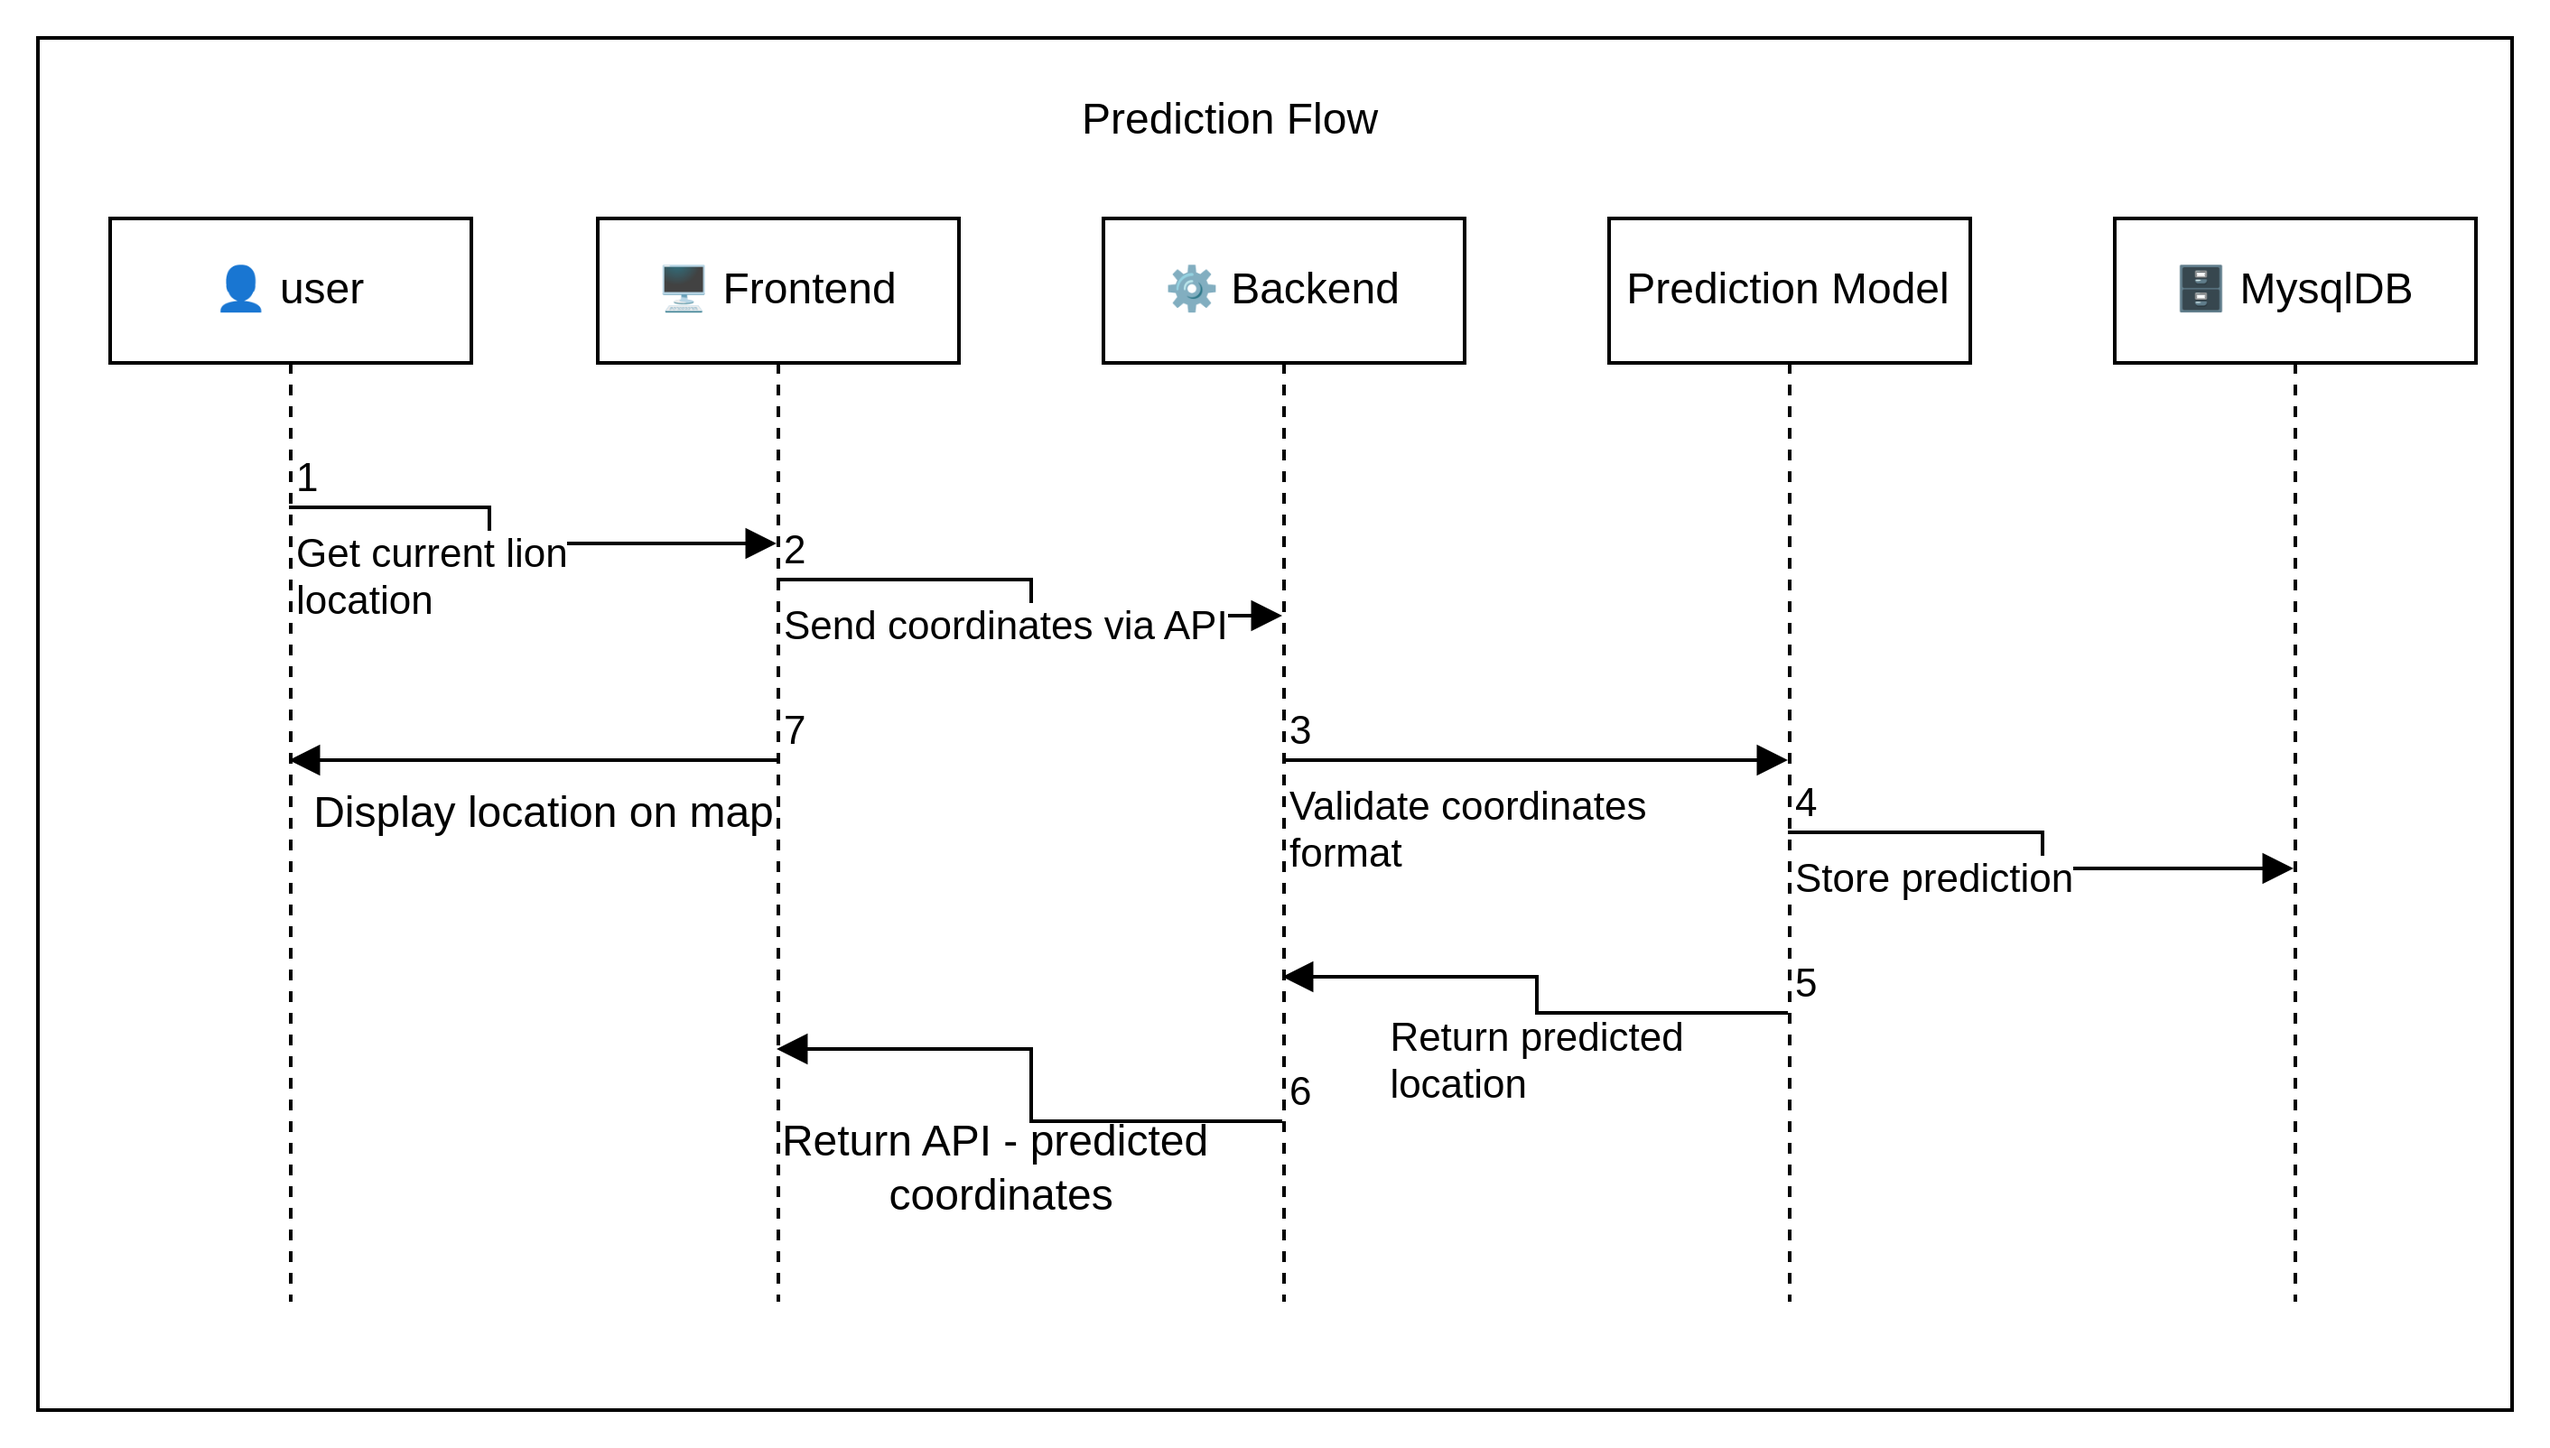
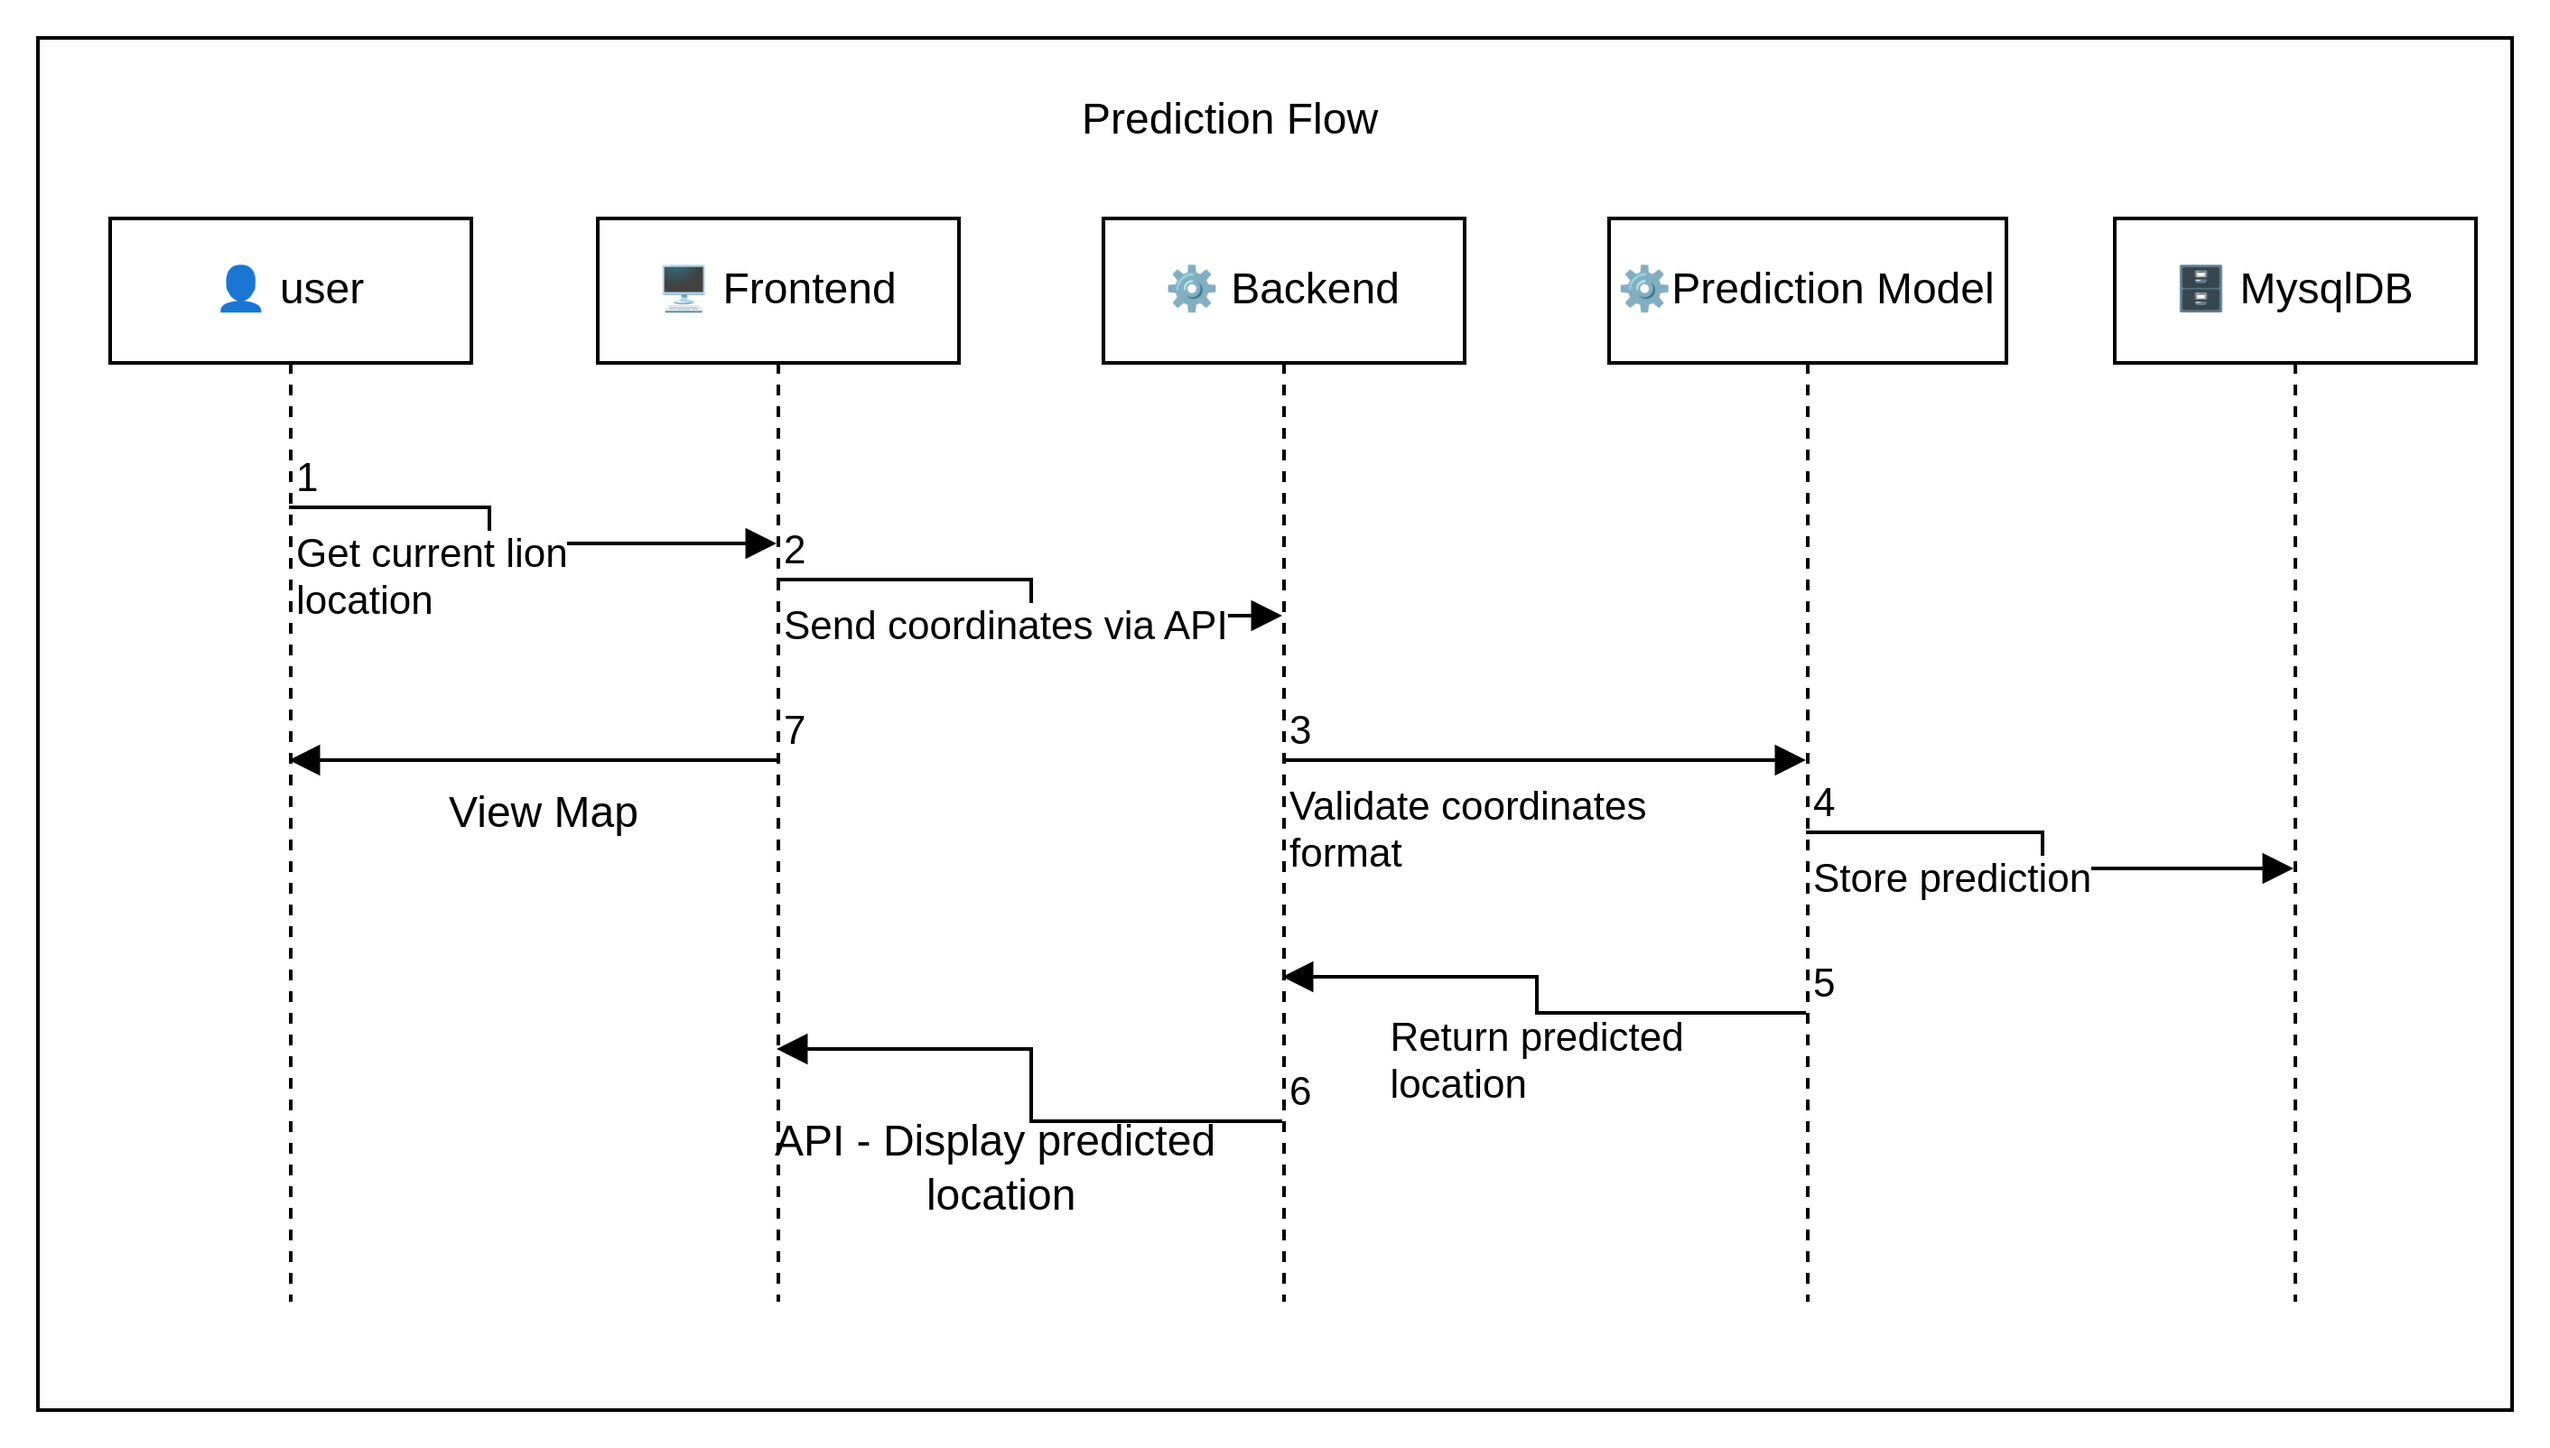
Updated System Documentation

diff --git a/README.md b/README.md
@@ -1,10 +1,10 @@
-# Lion Movement Prediction System
+# AI WILDLIFE RANGER
 
-A web prototype built with Flask that enables rangers to see the future location of a lion and get email alerts when this location is in a restricted area.
+A web based prototype built with Flask that enables rangers to see the future location of a lion and get email alerts when this location is in a restricted area.
 
 ## Table of Content
 
-- [Lion Movement Prediction System](#lion-movement-prediction-system)
+- [AI WILDLIFE RANGER](#ai-wildlife-ranger)
   - [Table of Content](#table-of-content)
   - [Overview](#overview)
   - [Features](#features)
@@ -17,32 +17,32 @@ A web prototype built with Flask that enables rangers to see the future location
     - [Clone the repository](#clone-the-repository)
     - [Create virtual environment](#create-virtual-environment)
     - [Install dependencies](#install-dependencies)
+    - [Environment Setup](#environment-setup)
     - [Setup Database](#setup-database)
-  - [Environment Setup](#environment-setup)
   - [API Documentation](#api-documentation)
   - [Run the App](#run-the-app)
   - [Database Schema](#database-schema)
   - [Useful links](#useful-links)
   - [Troubleshooting tips](#troubleshooting-tips)
-    - [Checking whether the predicted location is within the park(Taita taveta county)](#checking-whether-the-predicted-location-is-within-the-parktaita-taveta-county)
     - [Send Email alert to park authority if predicted location is outside the park(Kwale county)](#send-email-alert-to-park-authority-if-predicted-location-is-outside-the-parkkwale-county)
-    - [Dynamic change of our real-time data while fetching reponse from server](#dynamic-change-of-our-real-time-data-while-fetching-reponse-from-server)
-  - [Description of workflow](#description-of-workflow)
+  - [Basic workflow](#basic-workflow)
   - [Directory structure](#directory-structure)
   - [Help](#help)
 
 ## Overview
 
-AI Lion Ranger is a prototype designed to reduce human wildlife conflicts by increasing the proactive response time of rangers. Given the current location of a lion, it predicts where it will be in the next two hours.
+AI Lion Ranger is a prototype designed to reduce human wildlife conflicts by increasing the response time of rangers. Given the current location of a lion, it predicts where it will be in the next two hours.
 
 ![system-overview](./static/images/system-overview.png)
 
 ## Features
 
-- Map display
-- Predict locations
-- Model performance report
-- Email alerts
+- 📍 Predict Locations
+- 📍 View Location on Map
+- 💬 Feedback
+- 📑 Model Performance Report
+- 📨 Email Alerts
+- 👩💻 Authentication
 
 ## System Architecture
 
@@ -61,6 +61,7 @@ AI Lion Ranger is a prototype designed to reduce human wildlife conflicts by inc
 - Python3
 - Mysql
 - vscode
+- Internet connection
 
 ## Installation
 
@@ -95,13 +96,7 @@ python3 -m venv .venv
 pip install requirements.txt
 ```
 
-### Setup Database
-
-Paste the content of `schema.sql` into your mysql and execute.\
-Add the portion of the real_time data to the database by the running command below.\
-Run the `main.py` file or `python3 main.py` to seed the database.
-
-## Environment Setup
+### Environment Setup
 
 Create a `.env` file with following variables
 
@@ -112,6 +107,7 @@ PASSWORD = "@WildlifeTech2025"
 HOST = "localhost"
 DATABASE = "WDF_conservation"
 
+# scroll to useful links below to download data
 GPS_COLLAR_DATA = "Kiboche_last_500_rows_data.csv"
 
 # google maps javasript api key
@@ -124,7 +120,23 @@ OPENCAGE_API_KEY = "YOUR_OPENCAGE_API_KEY"
 SENDER_EMAIL = "YOUR_GMAIL"
 SENDER_PASS = "YOUR_GMAIL_APP_PASSWORD"
 RECIP_MAIL = "RECEIVER_EMAIL"
+
+# session secret key
+SESSION_SECRET_KEY = "YOUR_SELF_GENERATED_KEY"
+
+# sinch sms service - search sinch on internet & follow guides
+ACCESS_KEY_ID = "YOUR_SINCH_ACCESS_KEY"
+KEY_SECRET = "YOUR_SINCH_KEY_SECRET"
+PROJECT_ID = "YOUR_SINCH_PROJECT_ID"
+SINCH_NUMBER = "YOUR_SINCH_NUMBER"
+RECEIVER_NUMBER = "NUMBER_USED_TO_CREATE_SINCH_ACC"
 ```
+
+### Setup Database
+
+Paste the content of the `schema.sql` into your mysql and execute.\
+Add the portion of the real_time data to the database by the running command below.\
+Run the `main.py` file or `python3 main.py` to seed the database.
 
 ## API Documentation
 
@@ -136,7 +148,7 @@ GET /
 GET /model-report
 
 # display map on home page
-GET /display-location
+GET /view-map
 
 # get current lion location
 GET /real-time-location/<int:coordinate_id>
@@ -146,7 +158,17 @@ GET /real-time-location/<int:coordinate_id>
 GET /predict/location/<int:coordinate_id>/time/<int:time_interval>
 
 # send email alert
-POST /send-alert
+POST /send-email-notification
+
+# create account
+GET/POST /register
+
+# login
+GET/POST /login
+
+GET /logout
+GET/POST /feedback
+
 
 # replace the part inside <...> with a value e.g /predict/location/1/time/2"
 ```
@@ -157,12 +179,10 @@ On the terminal run `flask run --debug`.
 
 ## Database Schema
 
-![alt text](static/images/dbschema.png)
+![database-schema](static/images/dbschema.png)
 
 ## Useful links
 
-Requires Access Rights\
-[Project documentation](https://onedrive.live.com/view?id=43505624473455EF!3340&resid=43505624473455EF!3340&authkey=!ArLn6xbCh_7MAEs&wdo=2&cid=43505624473455ef)\
 [Download Lion Kiboche real-time data](https://drive.google.com/uc?id=1N9gEm56eMsf8qcRi3JwQzn2n4cxiuDsA&export=download)\
 [Code to ML prediction model](https://colab.research.google.com/drive/1eLzl6sPXAiUuNLhWkPMxFJgJbLa70__4?usp=sharing)
 
@@ -170,26 +190,26 @@ Requires Access Rights\
 
 Ensure you have installed all dependencies in `requirements.txt` file. Do this in a virtual environment.
 
-### Checking whether the predicted location is within the park(Taita taveta county)
+Try loading the app on a different browser.
 
-- Try different real time location that we have.
-- While changing the real time data we get a predicted location for that real time coodinate. so check message being displayed in the console.
+Ensure all env variables are correctly assigned.
 
 ### Send Email alert to park authority if predicted location is outside the park(Kwale county)
 
 - first run `pip install Flask-Mail` to install flask_mail lib.
 - when the predicted loc coordinate is outside the park, an email sent to park authority informing then so as to take a proactive measure in mitigating HWC.
 
-### Dynamic change of our real-time data while fetching reponse from server
+## Basic workflow
 
-- Added an input tag in the `index.html` file for accepting row ids from 1 through 500.
-- When `try this` button is clicked, the given row id value will be used during fetch from a server endpoint.
-- By default if no value is given, we just use row id 1.
-
-## Description of workflow
+When you pass the current coordinates of a Lion, a prediction is made. If the predicted location crosses Taita Taveta border into Kwale county. An alert by email is sent.
 
 ## Directory structure
 
 ## Help
 
-We used **Google Maps Javascript API** and an **API from Opencage**. If you find urgent need to test the system with our **API keys** or data from env file, send an email to <tumaini736@gmail.com>.
+We used **Google Maps Javascript API** , **sinch sms service** and an **API from Opencage**. If you find urgent need to test the application with our development **API keys** or values on env file, send an email to <waribekihiko651@gmail.com>.
+
+---
+Developed by:\
+[Granton Waribe](https://ke.linkedin.com/in/grantonwaribe) as **Full Stack Engineer**.\
+[Ezekiah Nyagwaya](https://github.com/Ezekiah3854) as **Full Stack Engineer**.
